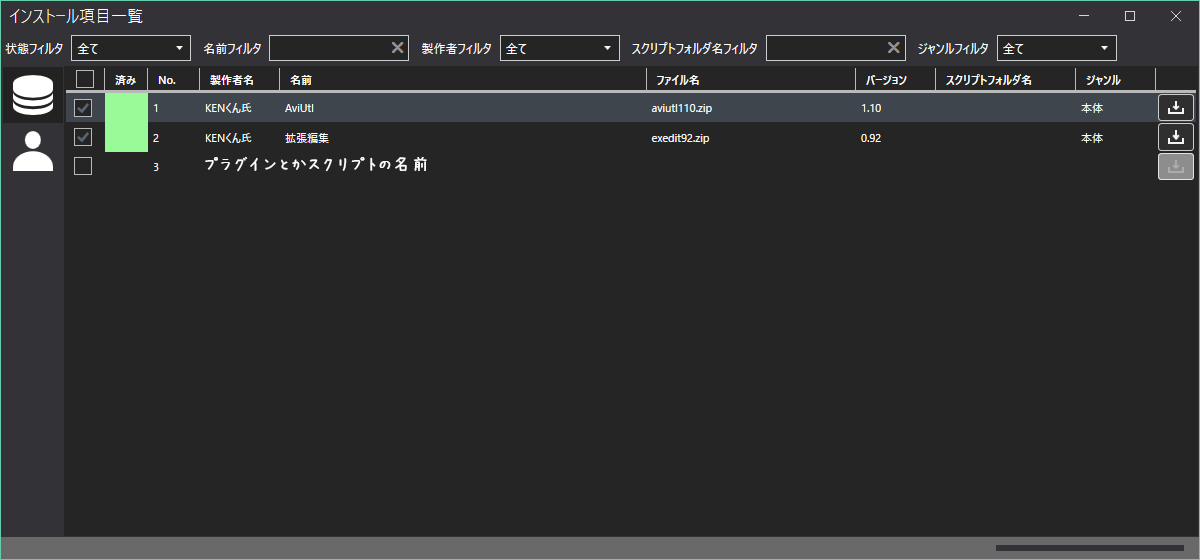
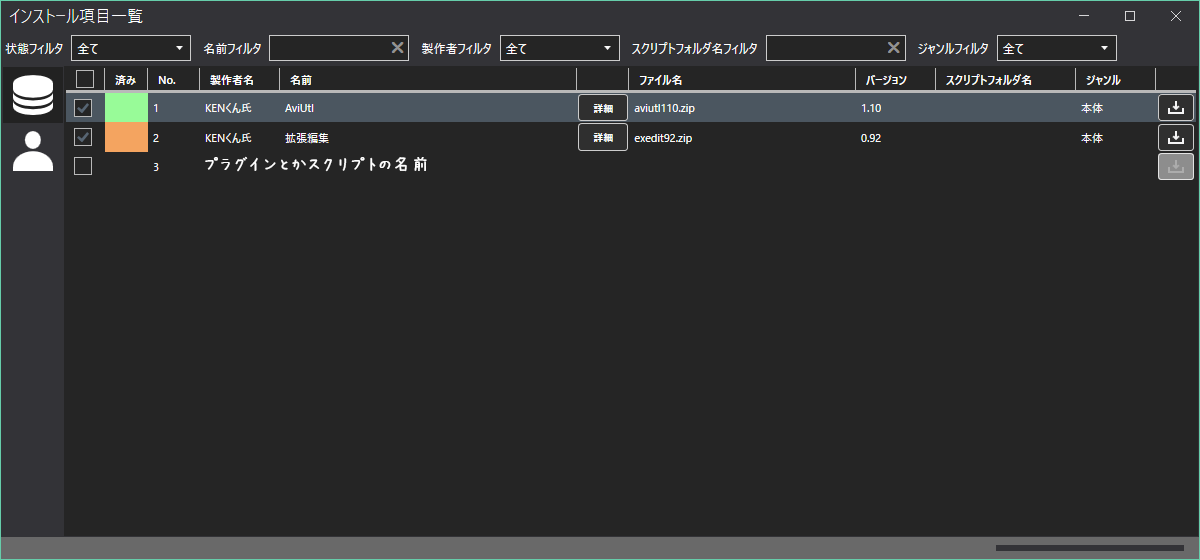
Update: docs

diff --git a/docs/htmls/how_to_use.html b/docs/htmls/how_to_use.html
@@ -66,8 +66,12 @@
     </div>
     <p>また、項目をインストール後は、"済み"の箇所が以下のようになります。</p>
     <a href="../images/installlist1-2.png"><img class="install_list_img" src="../images/installlist1-2.png"></a>
-    <ol>
+    <ul>
+      <li>緑：インストール済み</li>
+      <li>橙：インストールした項目にアップデートあり</li>
+    </ul>
 
+    <ol>
       <h3 id="ExistingItem"><li>既存のものから選択</li></h3>
       <ol>
         <li>インストールしたい項目にチェックを入れる</li>
@@ -139,10 +143,16 @@
       <h3 id="PreDownload"><li>項目の事前ダウンロード</li></h3>
       <p>事前にダウンロードをすることで、インストール時のダウンロード処理を飛ばすことができます。</p>
       <img src="../images/dl1.png"/>
-      <p style="margin-top:0; margin-left:16px;">ダウンロードができる状態です。</p>
+      <p style="margin-top:0; margin-left:16px;">未ダウンロードで、ダウンロードができる状態です。</p>
       <img src="../images/dl2.png"/>
-      <p style="margin-top:0; margin-left:16px;">ダウンロードができない状態です。<br>
+      <p style="margin-top:0; margin-left:16px;">未ダウンロードで、ダウンロードができない状態です。<br>
       インストールする際は、事前にファイルを以下のフォルダに入れてください。<br>
+         <code>AviUtlAutoInstaller/cache</code></p>
+      <img src="../images/dl3.png"/>
+      <p style="margin-top:0; margin-left:16px;">ダウンロード済みで、ダウンロードができる状態です。</p>
+      <img src="../images/dl4.png"/>
+      <p style="margin-top:0; margin-left:16px;">ダウンロード済みで、ダウンロードができない状態です。<br>
+      以下のフォルダにダウンロードファイルがある状態です。<br>
          <code>AviUtlAutoInstaller/cache</code></p>
     </ol>
 
@@ -157,12 +167,19 @@
 
     <h2 id="SingleInstallUninstall">個別インストール/アンインストール</h2>
     <p>AviUtlをインストール後に、追加でプラグインやスクリプトをインストール/アンインストールをしたい場合でも、個別に行うことが出来ます。<br>
+    また、アップデート可能なものがある場合は、アップデートの選択も出来ます。</br>
     この操作は、プリインストールリポジトリでのみ有効です。</p>
     <ol>
       <h3 id="SingleInstall"><li>インストール</li></h3>
       <ol>
         <li>インストールしたい項目を右クリックする</li>
         <li>"インストール"を選択してクリックする</li>
+      </ol>
+
+      <h3 id="SingleUpdate"><li>アップデート</li></h3>
+      <ol>
+        <li>アップデートしたい項目を右クリックする</li>
+        <li>"アップデート"を選択してクリックする</li>
       </ol>
 
       <h3 id="SingleUninstall"><li>アンインストール</li></h3>

diff --git a/docs/htmls/start.html b/docs/htmls/start.html
@@ -39,6 +39,7 @@
         &nbsp;&nbsp;&nbsp;|&nbsp;&nbsp;&nbsp;&nbsp;|- Fody.txt<br>
         &nbsp;&nbsp;&nbsp;|&nbsp;&nbsp;&nbsp;&nbsp;|- MahApps.Metro.txt<br>
         &nbsp;&nbsp;&nbsp;|&nbsp;&nbsp;&nbsp;&nbsp;|- Nett.txt<br>
+        &nbsp;&nbsp;&nbsp;|&nbsp;&nbsp;&nbsp;&nbsp;|- Newtonsoft.Json.txt<br>
         &nbsp;&nbsp;&nbsp;|&nbsp;&nbsp;&nbsp;&nbsp;|- SevenZipExtractor.txt<br>
         &nbsp;&nbsp;&nbsp;|&nbsp;&nbsp;&nbsp;&nbsp;|- System.Runtime.CompilerServices.Unsafe.txt<br>
         &nbsp;&nbsp;&nbsp;|&nbsp;&nbsp;&nbsp;&nbsp;|- System.Text.Encoding.CodePages.txt<br>
@@ -57,19 +58,21 @@
         &nbsp;&nbsp;&nbsp;|&nbsp;&nbsp;&nbsp;&nbsp;|&nbsp;&nbsp;&nbsp;&nbsp;|- dl1.png<br>
         &nbsp;&nbsp;&nbsp;|&nbsp;&nbsp;&nbsp;&nbsp;|&nbsp;&nbsp;&nbsp;&nbsp;|- dl2.png<br>
         &nbsp;&nbsp;&nbsp;|&nbsp;&nbsp;&nbsp;&nbsp;|&nbsp;&nbsp;&nbsp;&nbsp;|- installItem1.png<br>
-        &nbsp;&nbsp;&nbsp;|&nbsp;&nbsp;&nbsp;&nbsp;|&nbsp;&nbsp;&nbsp;&nbsp;|- installlist1.png<br>
+        &nbsp;&nbsp;&nbsp;|&nbsp;&nbsp;&nbsp;&nbsp;|&nbsp;&nbsp;&nbsp;&nbsp;|- installlist1-1.png<br>
+        &nbsp;&nbsp;&nbsp;|&nbsp;&nbsp;&nbsp;&nbsp;|&nbsp;&nbsp;&nbsp;&nbsp;|- installlist1-2.png<br>
         &nbsp;&nbsp;&nbsp;|&nbsp;&nbsp;&nbsp;&nbsp;|&nbsp;&nbsp;&nbsp;&nbsp;|- installlist2.png<br>
         &nbsp;&nbsp;&nbsp;|&nbsp;&nbsp;&nbsp;&nbsp;|&nbsp;&nbsp;&nbsp;&nbsp;|- main.png<br>
         &nbsp;&nbsp;&nbsp;|&nbsp;&nbsp;&nbsp;&nbsp;|&nbsp;&nbsp;&nbsp;&nbsp;|- main2.png<br>
         &nbsp;&nbsp;&nbsp;|&nbsp;&nbsp;&nbsp;&nbsp;|&nbsp;&nbsp;&nbsp;&nbsp;|- main3.png<br>
         &nbsp;&nbsp;&nbsp;|&nbsp;&nbsp;&nbsp;&nbsp;|&nbsp;&nbsp;&nbsp;&nbsp;|- prerepo_icon.png<br>
+        &nbsp;&nbsp;&nbsp;|&nbsp;&nbsp;&nbsp;&nbsp;|&nbsp;&nbsp;&nbsp;&nbsp;|- property.png<br>
         &nbsp;&nbsp;&nbsp;|&nbsp;&nbsp;&nbsp;&nbsp;|&nbsp;&nbsp;&nbsp;&nbsp;|- update1.png<br>
         &nbsp;&nbsp;&nbsp;|&nbsp;&nbsp;&nbsp;&nbsp;|&nbsp;&nbsp;&nbsp;&nbsp;|- update2.png<br>
         &nbsp;&nbsp;&nbsp;|&nbsp;&nbsp;&nbsp;&nbsp;|&nbsp;&nbsp;&nbsp;&nbsp;|- update3.png<br>
         &nbsp;&nbsp;&nbsp;|&nbsp;&nbsp;&nbsp;&nbsp;|&nbsp;&nbsp;&nbsp;&nbsp;`- userrepo_icon.png<br>
         &nbsp;&nbsp;&nbsp;|&nbsp;&nbsp;&nbsp;&nbsp;`- index.html<br>
         &nbsp;&nbsp;&nbsp;|- repo/<br>
-        &nbsp;&nbsp;&nbsp;|&nbsp;&nbsp;&nbsp;&nbsp;|- user_repo/<br>
+        &nbsp;&nbsp;&nbsp;|&nbsp;&nbsp;&nbsp;&nbsp;|- user_repo/(ユーザーリポジトリファイルをここに入れると管理しやすいです)<br>
         &nbsp;&nbsp;&nbsp;|&nbsp;&nbsp;&nbsp;&nbsp;`- aai.repo<br>
         &nbsp;&nbsp;&nbsp;|- x64/<br>
         &nbsp;&nbsp;&nbsp;|&nbsp;&nbsp;&nbsp;&nbsp;|- 7z.dll<br>
@@ -79,6 +82,8 @@
         &nbsp;&nbsp;&nbsp;|&nbsp;&nbsp;&nbsp;&nbsp;`- SQLite.Interop.dll<br>
         &nbsp;&nbsp;&nbsp;|- aai.exe<br>
         &nbsp;&nbsp;&nbsp;|- aai.exe.config<br>
+        &nbsp;&nbsp;&nbsp;|- updater.exe<br>
+        &nbsp;&nbsp;&nbsp;|- updater.exe.config<br>
         &nbsp;&nbsp;&nbsp;`- LICENSE<br>
       </div>
 

diff --git a/docs/htmls/contents.html b/docs/htmls/contents.html
@@ -28,6 +28,7 @@
       <ul class="contents_title_child"><a href="how_to_use.html#SingleInstallUninstall" target="sc">個別インストール/アンインストール</a></ul>
         <ul class="contents_title_child">
           <ul class="contents_title_child"><a href="how_to_use.html#SingleInstall" target="sc">インストール</a></ul>
+          <ul class="contents_title_child"><a href="how_to_use.html#SingleUpdate" target="sc">アップデート</a></ul>
           <ul class="contents_title_child"><a href="how_to_use.html#SingleUninstall" target="sc">アンインストール</a></ul>
           <ul class="contents_title_child"><a href="how_to_use.html#BatchInstall" target="sc">まとめてインストール</a></ul>
           <ul class="contents_title_child"><a href="how_to_use.html#BatchUninstall" target="sc">まとめてアンインストール</a></ul>
